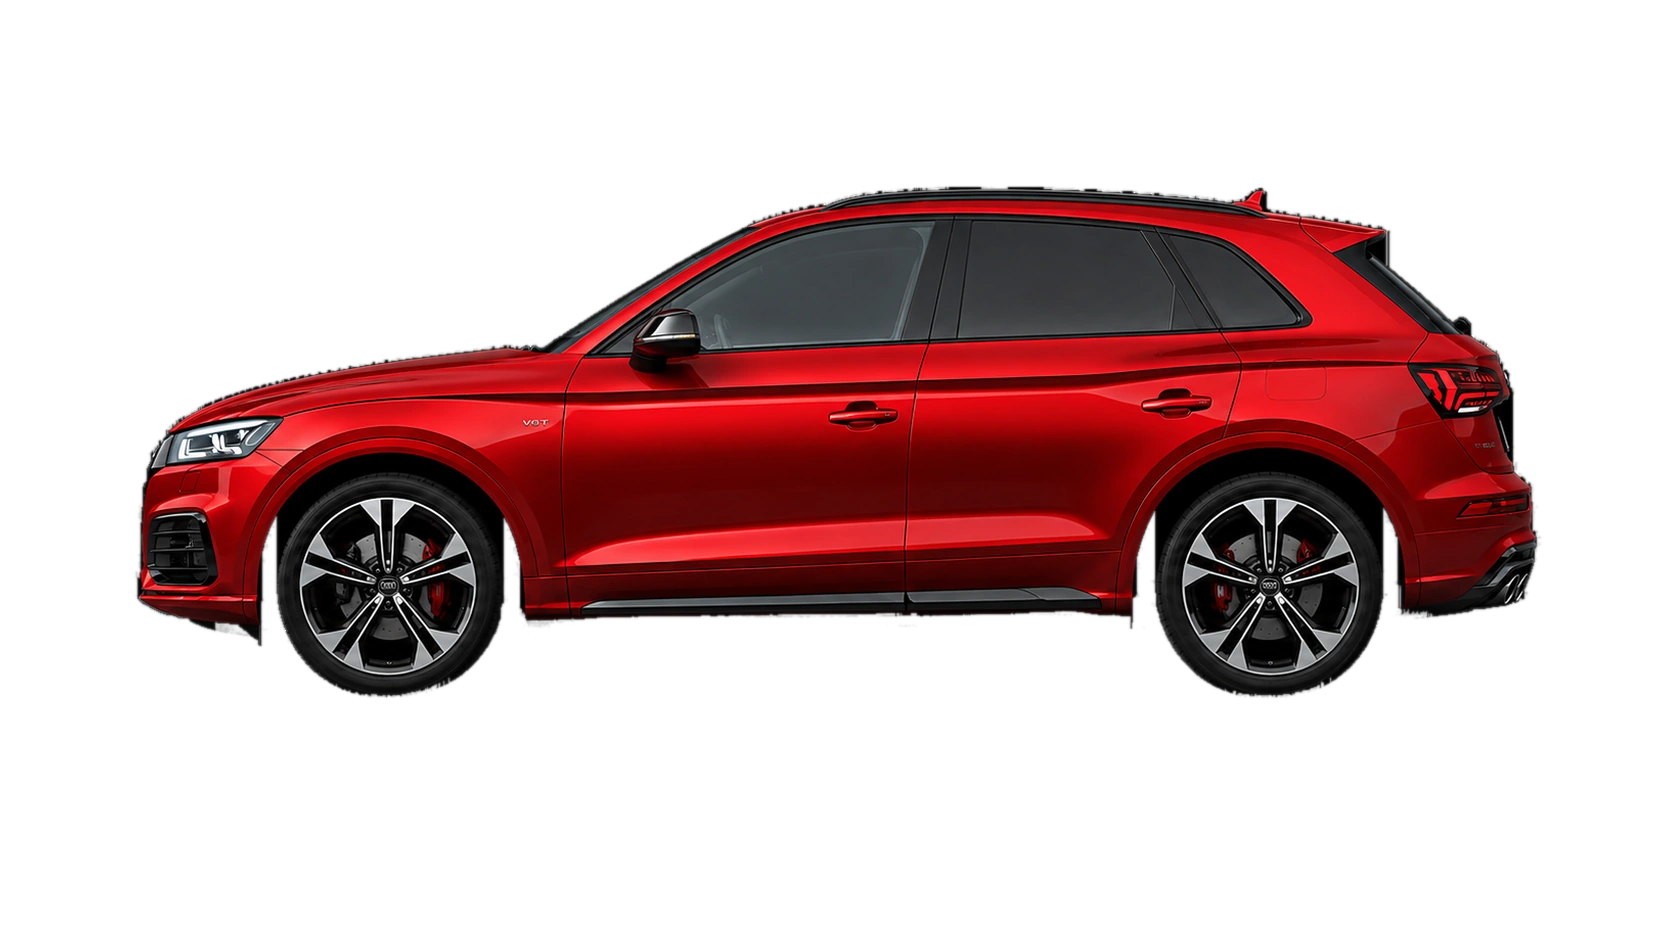
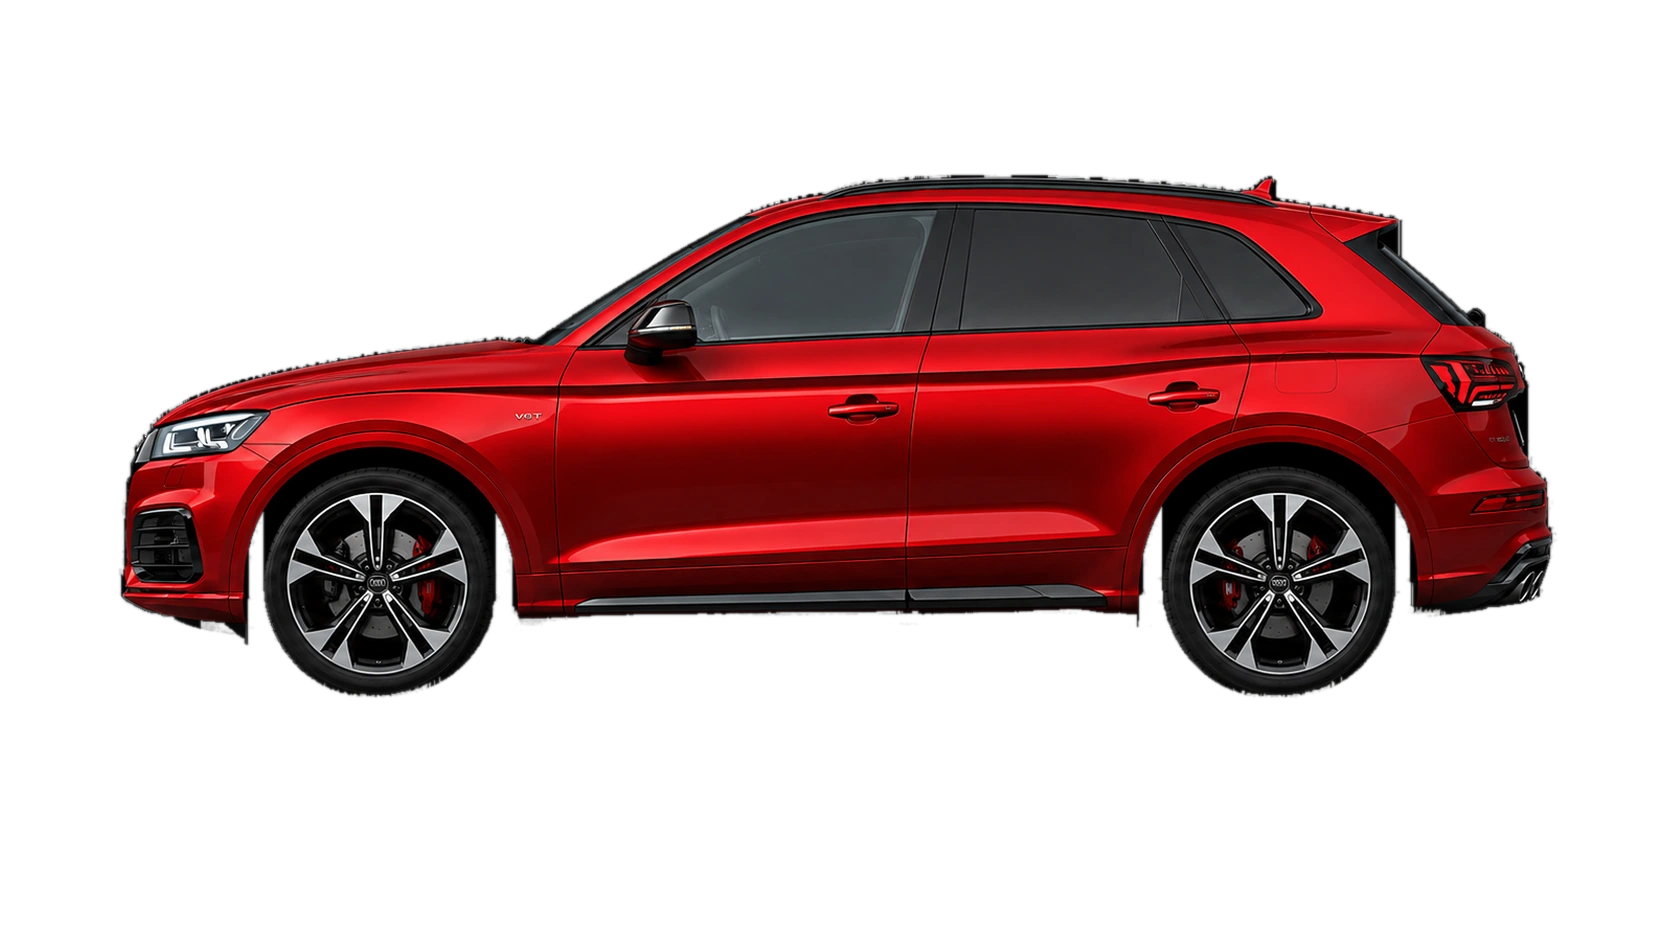
Suma el Audi RS 3 Sportback, cuarto en la lista
Entra entre la Mercedes y el Golf. Seis autos en el stock.

La foto llegó sin la línea de apoyo bajo las ruedas que sí tienen las
otras cinco —midiendo la franja de contacto da 1,7% contra 5,5-7,2%
del resto—, pero sobre el rig la diferencia no se ve: la barra de
horizonte pasa justo a la altura del neumático y es ella la que apoya
el auto. Rehacer la imagen no lo iba a resolver; la segunda tanda
movió el número de 1,3 a 1,7.

El script lo calibró contra los 4389 mm del RS 3: quedó a -0,2% de la
escala común y apoyando en la misma línea que los demás.

Changed region(s): [[0.0622, 0.1849, 0.933, 0.7396]]

diff --git a/public/index.html b/public/index.html
@@ -537,6 +537,9 @@ body{
     { slug:'glc-coupe',  word:'GLC',     model:'Mercedes-Benz GLC Coupé',
       power:258, accel:'6,2', gearbox:'AUTOMÁTICA 9V · 4MATIC' },
 
+    { slug:'audi-rs3',   word:'RS 3',    model:'Audi RS 3 Sportback',
+      power:400, accel:'3,8', gearbox:'S TRONIC 7V · QUATTRO' },
+
     { slug:'golf-gti',   word:'GTI',     model:'Volkswagen Golf GTI',
       power:245, accel:'6,2', gearbox:'DSG 7V · TRACCIÓN DELANTERA' },
 

diff --git a/tools/build-cars.py b/tools/build-cars.py
@@ -48,6 +48,7 @@ REAL = {
     "glc-coupe":  4763,   # Mercedes-Benz GLC Coupé
     "golf-gti":   4287,   # Volkswagen Golf GTI (Mk8)
     "audi-q5":    4689,   # Audi Q5 Sportback
+    "audi-rs3":   4389,   # Audi RS 3 Sportback (8Y)
 }
 
 CANVAS = (1672, 941)   # lienzo de salida, proporción de las fotos
